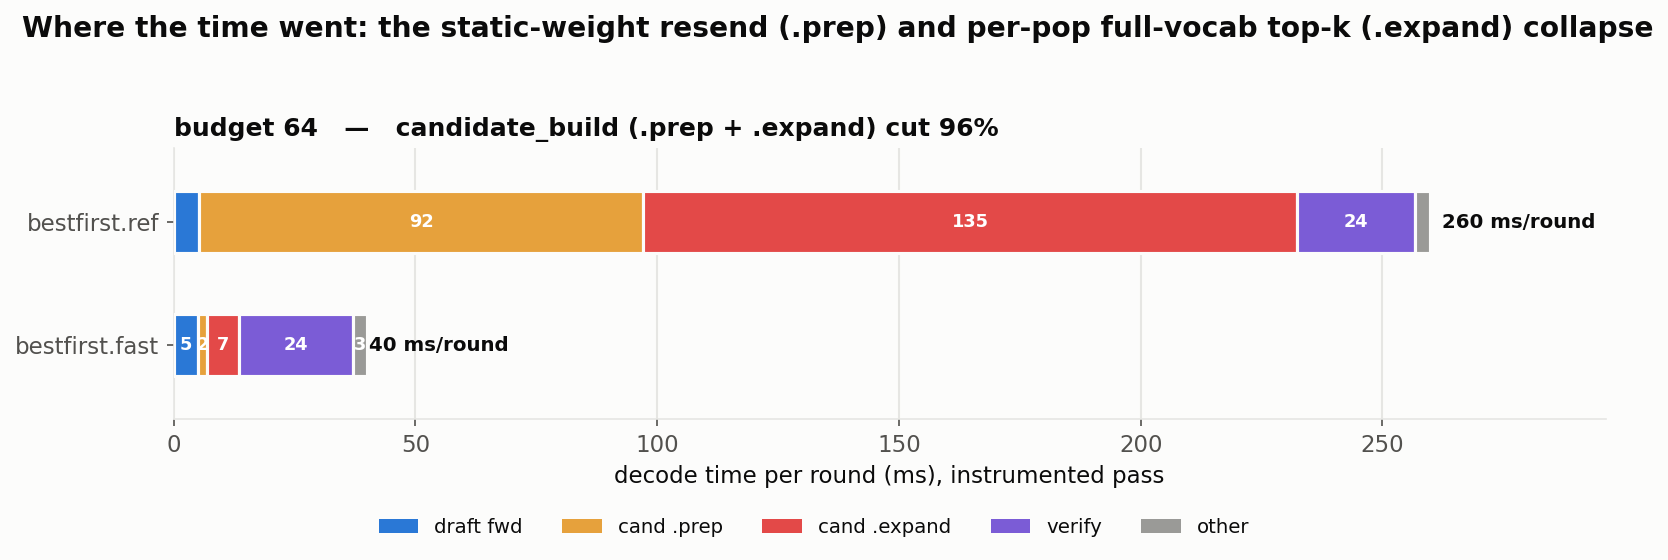
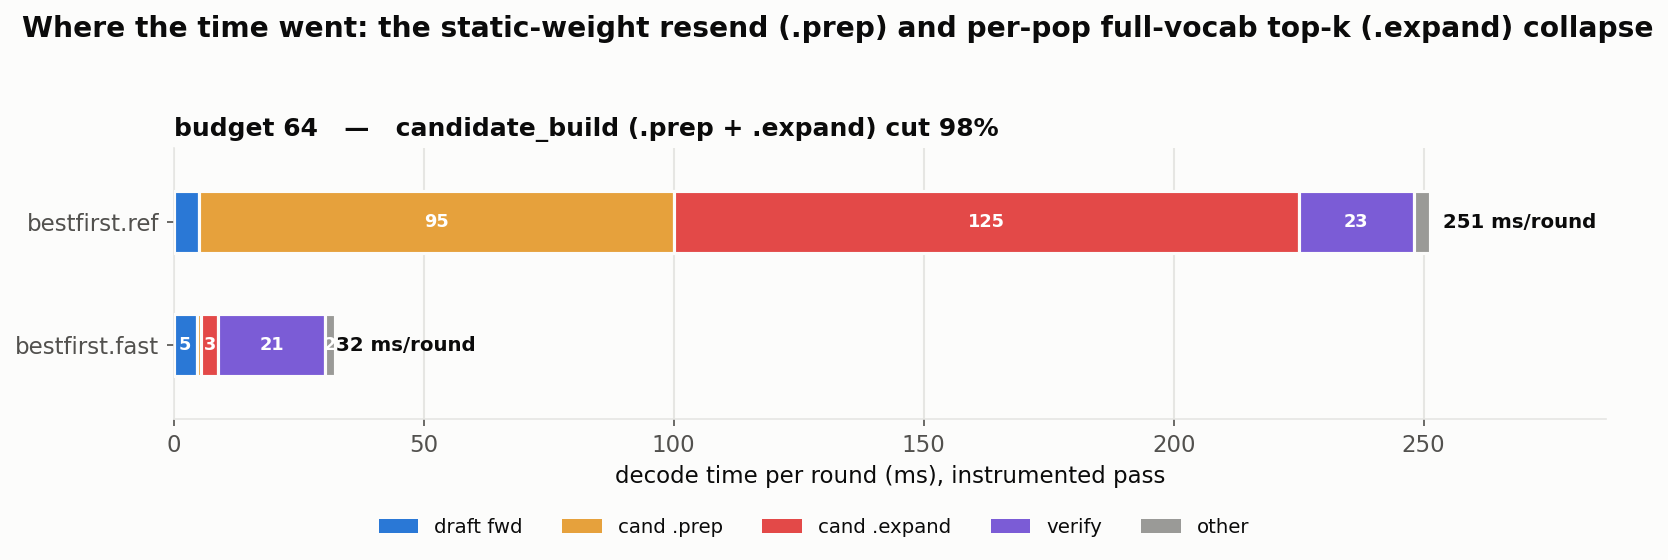
Update top-k transfer results to the k=256 run: 7.9x faster, 98% build cut
New charts (30 -> 238 tok/s, 251 -> 32 ms/round) and the explanation of
the unexpected expansion-time win from the smaller CPU-side vocab.

Claude-Session: https://claude.ai/code/session_01Ev2qgrrBSa65wfv6bmJC1b

diff --git a/content/blogs.js b/content/blogs.js
@@ -2250,11 +2250,13 @@ We cannot go back and forth from CPU to GPU at each step. This means we can't ju
 
 The way we explore cutting this down is by running the top-k over all indexes immediately after the diffusion drafter is done (on GPU), before sending anything to the CPU. This could be lossy, because the markov bias is additive, so a token outside the base top-k could have been promoted into the true biased top-k that was excluded. It still captures ~99% because the bias is relatively small, so if we capture enough of a top-k (a few thousand instead of the 100k+ vocabulary size), we can practically cover it all.
 
-![Transferring only the top-k makes SparklingTree b16 6.8× faster at budget 64, with acceptance unchanged (+2.0%).](/content/sparklingtree/results-8-topk-transfer.png)
+We see a nearly 8× speedup by sending only the top-k of k=256 at node budget 64:
 
-At budget 64 and a top-k of 2048, we get:
+![An 8× speedup without changing the acceptance rate, by transferring only the top 256 candidates to CPU.](/content/sparklingtree/results-8-topk-transfer.png)
 
-![The prep time (sending over the candidates to CPU) collapses drastically.](/content/sparklingtree/results-9-prep-collapse.png)
+Surprisingly, BOTH the time to send the candidates to CPU (expected to decrease, because we send only a fraction of the full vocab size) AND the expansion time to create the heap (an unexpected side benefit) decreased significantly. The reason is that with a lower vocab size, the sorting and selecting task for the CPU becomes drastically faster as well.
+
+![The prep time (sending over the candidates to CPU) AND the expansion (heap building) time collapse drastically.](/content/sparklingtree/results-9-prep-collapse.png)
 
 **2. Doing repeated compute on CPU (particularly in the loop of expanding the tree)**
 
